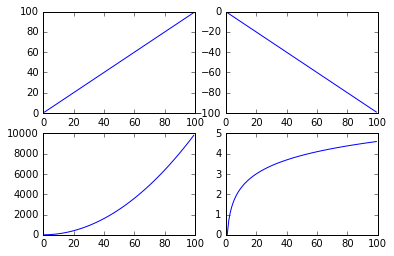
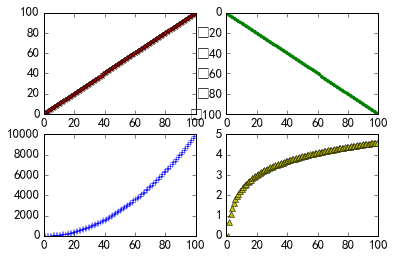
python draw pictures

Changed region(s): [[0.0305, 0.0312, 1.0, 0.9688]]

diff --git a/_posts/2017-02-06-python-draw.md b/_posts/2017-02-06-python-draw.md
@@ -79,6 +79,30 @@ plt.show()
 
 ![png](/images/posts/python/output_10_0.png)
 
+#### 柱状图
+
+```python
+import matplotlib.pyplot as plt
+import numpy as np
+plt.rc('font', family='SimHei', size=13)
+ 
+num = np.array([13325, 9403, 9227, 8651])
+ratio = np.array([0.75, 0.76, 0.72, 0.75])
+men = num * ratio
+women = num * (1-ratio)
+x = ['A','B','C\nC','D']
+ 
+width = 0.5
+idx = np.arange(len(x))
+plt.bar(idx, men, width, color='red', label='Male')
+plt.bar(idx, women, width, bottom=men, color='yellow', label='Female')
+plt.xlabel('Type')
+plt.ylabel('Distribution')
+plt.xticks(idx+width/2, x, rotation=40)
+plt.legend()
+```
+
+![png](/images/posts/python/output_34_1.png)
 
 #### 折线图
 
@@ -211,19 +235,19 @@ x=np.arange(1,100)
 
 plt.subplot(221)  # 2行2列第1个图
 
-plt.plot(x,x)
+plt.plot(x,x,'r*')
 
 plt.subplot(222)
 
-plt.plot(x,-x)
+plt.plot(x,-x,'g.')
 
 plt.subplot(223)
 
-plt.plot(x,x*x)
+plt.plot(x,x*x,'b+')
 
 plt.subplot(224)
 
-plt.plot(x,np.log(x))
+plt.plot(x,np.log(x),'y^')
 
 plt.show()
 ```
